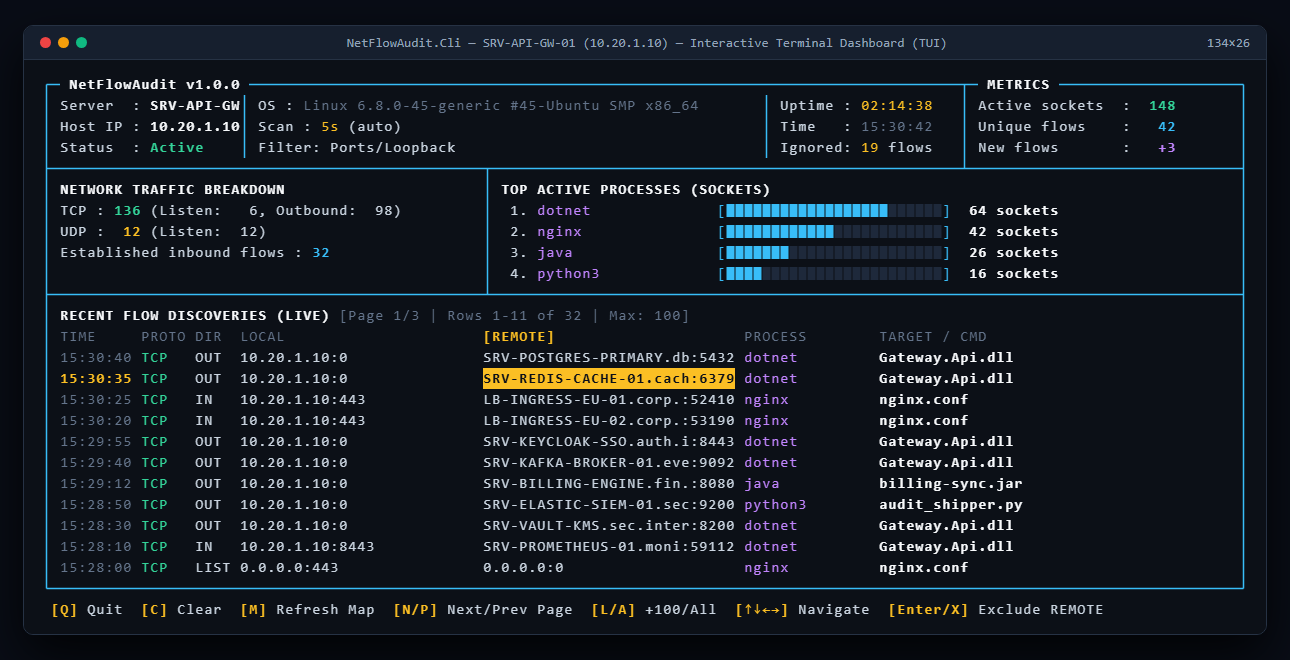
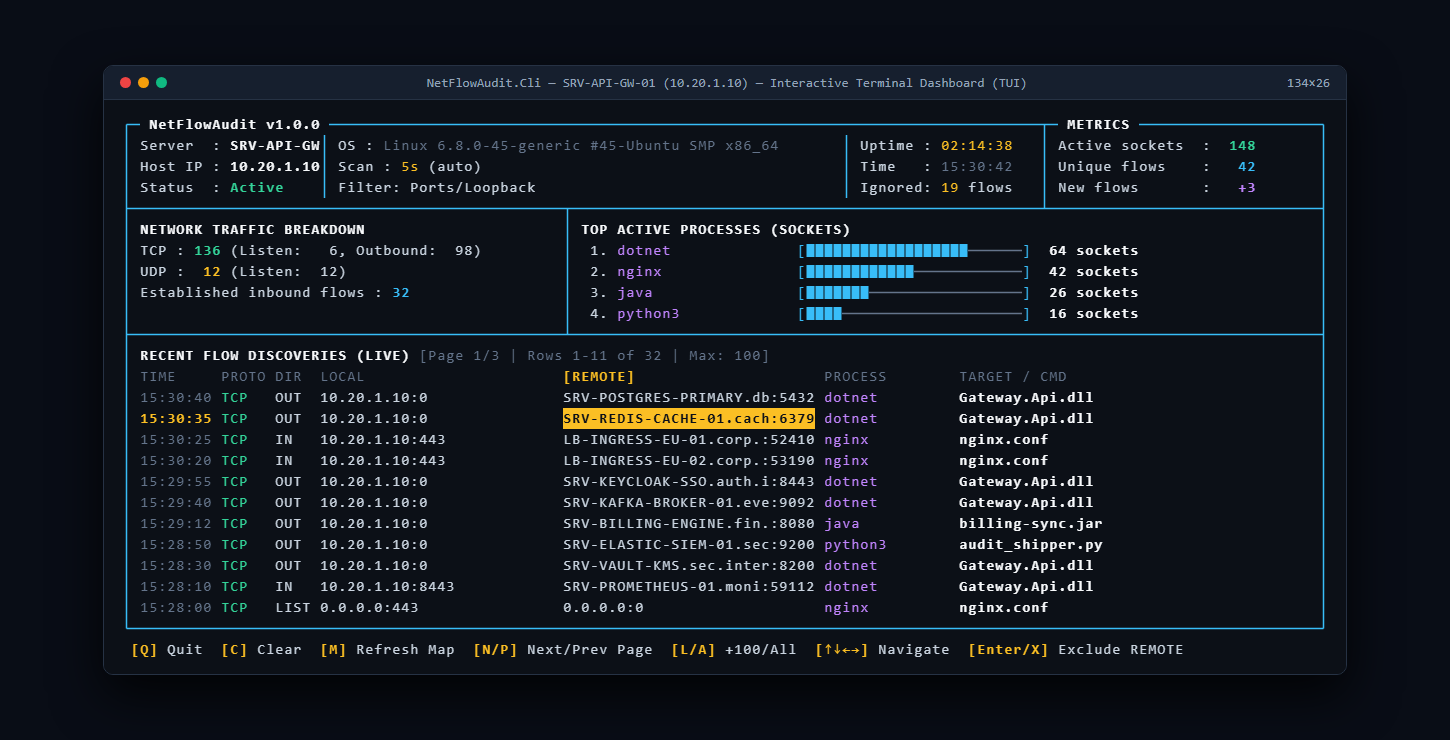
feat: use total audited sockets and thin rail for process progress bars

Changed region(s): [[0.031, 0.0303, 0.9922, 0.9394]]

diff --git a/NetFlowAudit.Cli/Dashboard/FlowAuditDashboardRenderer.cs b/NetFlowAudit.Cli/Dashboard/FlowAuditDashboardRenderer.cs
@@ -846,20 +846,20 @@ public sealed partial class FlowAuditDashboardRenderer
         sb.AppendLine(FormatSplitRow(titleTrafic, trafficColWidth, titleProc, topProcColWidth));
 
         var tcpLine = $" TCP : {AnsiGreen}{tcpSockets,4}{AnsiReset} (Listen: {listeningCount,3}, Outbound: {outboundCount,3})";
-        var totalActiveSockets = result.TotalSocketsScanned;
-        var proc1 = FormatTopProcess(topProcesses, 0, 1, topProcColWidth, totalActiveSockets);
+        var totalAuditedSockets = (tcpSockets + udpSockets) > 0 ? (tcpSockets + udpSockets) : processCounts.Values.Sum();
+        var proc1 = FormatTopProcess(topProcesses, 0, 1, topProcColWidth, totalAuditedSockets);
         sb.AppendLine(FormatSplitRow(tcpLine, trafficColWidth, proc1, topProcColWidth));
 
         var udpLine = $" UDP : {AnsiYellow}{udpSockets,4}{AnsiReset} (Listen: {udpSockets,3})";
-        var proc2 = FormatTopProcess(topProcesses, 1, 2, topProcColWidth, totalActiveSockets);
+        var proc2 = FormatTopProcess(topProcesses, 1, 2, topProcColWidth, totalAuditedSockets);
         sb.AppendLine(FormatSplitRow(udpLine, trafficColWidth, proc2, topProcColWidth));
 
         var inLine = $" Established inbound flows : {AnsiCyan}{inboundCount,4}{AnsiReset}";
-        var proc3 = FormatTopProcess(topProcesses, 2, 3, topProcColWidth, totalActiveSockets);
+        var proc3 = FormatTopProcess(topProcesses, 2, 3, topProcColWidth, totalAuditedSockets);
         sb.AppendLine(FormatSplitRow(inLine, trafficColWidth, proc3, topProcColWidth));
 
         var emptyLine = string.Empty;
-        var proc4 = FormatTopProcess(topProcesses, 3, 4, topProcColWidth, totalActiveSockets);
+        var proc4 = FormatTopProcess(topProcesses, 3, 4, topProcColWidth, totalAuditedSockets);
         sb.AppendLine(FormatSplitRow(emptyLine, trafficColWidth, proc4, topProcColWidth));
 
         // 4. Separator to discoveries table
@@ -1029,7 +1029,7 @@ public sealed partial class FlowAuditDashboardRenderer
         return $"{AnsiCyan}│{AnsiReset}{left}{AnsiCyan}│{AnsiReset}{right}{AnsiCyan}│{AnsiReset}{AnsiClearLine}";
     }
 
-    private static string FormatTopProcess(List<KeyValuePair<string, int>> list, int index, int rank, int totalColWidth, int totalActiveSockets)
+    private static string FormatTopProcess(List<KeyValuePair<string, int>> list, int index, int rank, int totalColWidth, int totalAuditedSockets)
     {
         if (index >= list.Count)
         {
@@ -1050,8 +1050,8 @@ public sealed partial class FlowAuditDashboardRenderer
         var barWidth = Math.Clamp(remainingWidth - procNameWidth - 3, 6, 24);
         var truncatedName = Truncate(item.Key, procNameWidth).PadRight(procNameWidth);
 
-        var ratio = totalActiveSockets > 0
-            ? Math.Clamp((double)item.Value / totalActiveSockets, 0.0, 1.0)
+        var ratio = totalAuditedSockets > 0
+            ? Math.Clamp((double)item.Value / totalAuditedSockets, 0.0, 1.0)
             : 0.0;
         var filledCount = (int)Math.Round(ratio * barWidth);
         if (item.Value > 0 && filledCount == 0)
@@ -1062,7 +1062,7 @@ public sealed partial class FlowAuditDashboardRenderer
         var emptyCount = barWidth - filledCount;
 
         var filledBlocks = new string('█', filledCount);
-        var emptyBlocks = new string('░', emptyCount);
+        var emptyBlocks = new string('─', emptyCount);
 
         var barPart = $"{AnsiCyan}[{filledBlocks}{AnsiDarkGray}{emptyBlocks}{AnsiCyan}]{AnsiReset}";
         return $" {rank}. {AnsiMagenta}{truncatedName}{AnsiReset} {barPart}  {AnsiWhite}{item.Value,3}{AnsiReset} sockets";

diff --git a/NetFlowAudit.Tests/Dashboard/FlowAuditDashboardRendererTests.cs b/NetFlowAudit.Tests/Dashboard/FlowAuditDashboardRendererTests.cs
@@ -892,7 +892,7 @@ public sealed class FlowAuditDashboardRendererTests
         // Assert
         // 1. Process progress bar characters are rendered in top processes pane
         frame.Should().Contain("█");
-        frame.Should().Contain("░");
+        frame.Should().Contain("─");
         // 2. Yellow selection highlight ANSI code is used for the selected cell
         frame.Should().Contain("\x1b[30;43;1m");
     }
